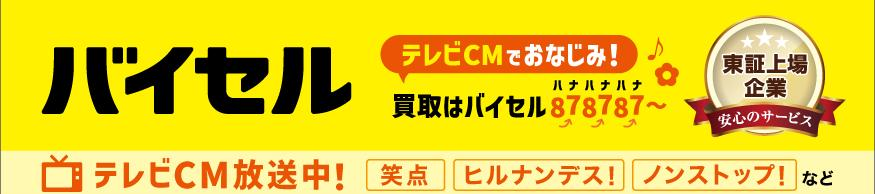
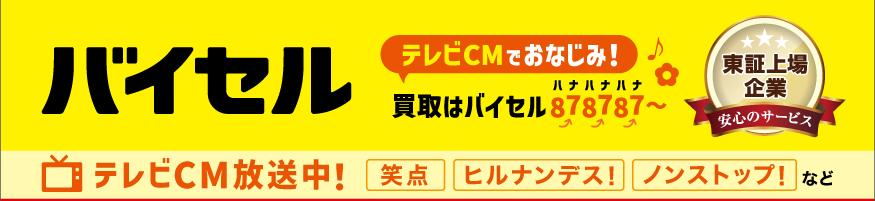
ヘッダー画像下部のトリミングを緩めに調整

diff --git a/chirashi_lego.html b/chirashi_lego.html
@@ -183,7 +183,7 @@
 <p class="page-label">【表面】</p>
 <div class="chirashi front">
   <div class="front-header">
-    <img src="img/header_official.jpg?v=2" alt="バイセル - テレビCMでおなじみ！買取はバイセル 878787 東証上場企業">
+    <img src="img/header_official.jpg?v=3" alt="バイセル - テレビCMでおなじみ！買取はバイセル 878787 東証上場企業">
   </div>
 
   <div class="front-main">

diff --git a/chirashi_lego_only.html b/chirashi_lego_only.html
@@ -183,7 +183,7 @@
 <p class="page-label">【表面】</p>
 <div class="chirashi front">
   <div class="front-header">
-    <img src="img/header_official.jpg?v=2" alt="バイセル - テレビCMでおなじみ！買取はバイセル 878787 東証上場企業">
+    <img src="img/header_official.jpg?v=3" alt="バイセル - テレビCMでおなじみ！買取はバイセル 878787 東証上場企業">
   </div>
 
   <div class="front-main">

diff --git a/chirashi_toy.html b/chirashi_toy.html
@@ -183,7 +183,7 @@
 <p class="page-label">【表面】</p>
 <div class="chirashi front">
   <div class="front-header">
-    <img src="img/header_official.jpg?v=2" alt="バイセル - テレビCMでおなじみ！買取はバイセル 878787 東証上場企業">
+    <img src="img/header_official.jpg?v=3" alt="バイセル - テレビCMでおなじみ！買取はバイセル 878787 東証上場企業">
   </div>
 
   <div class="front-main">
